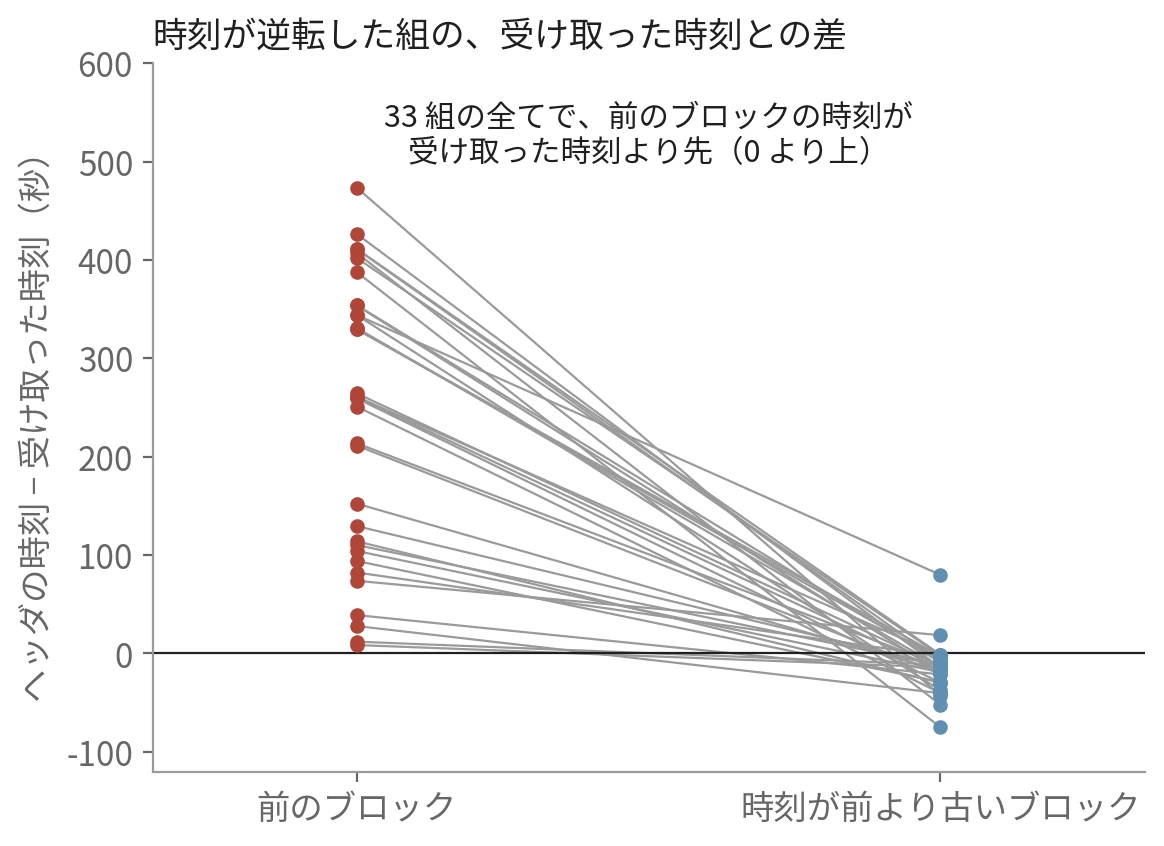
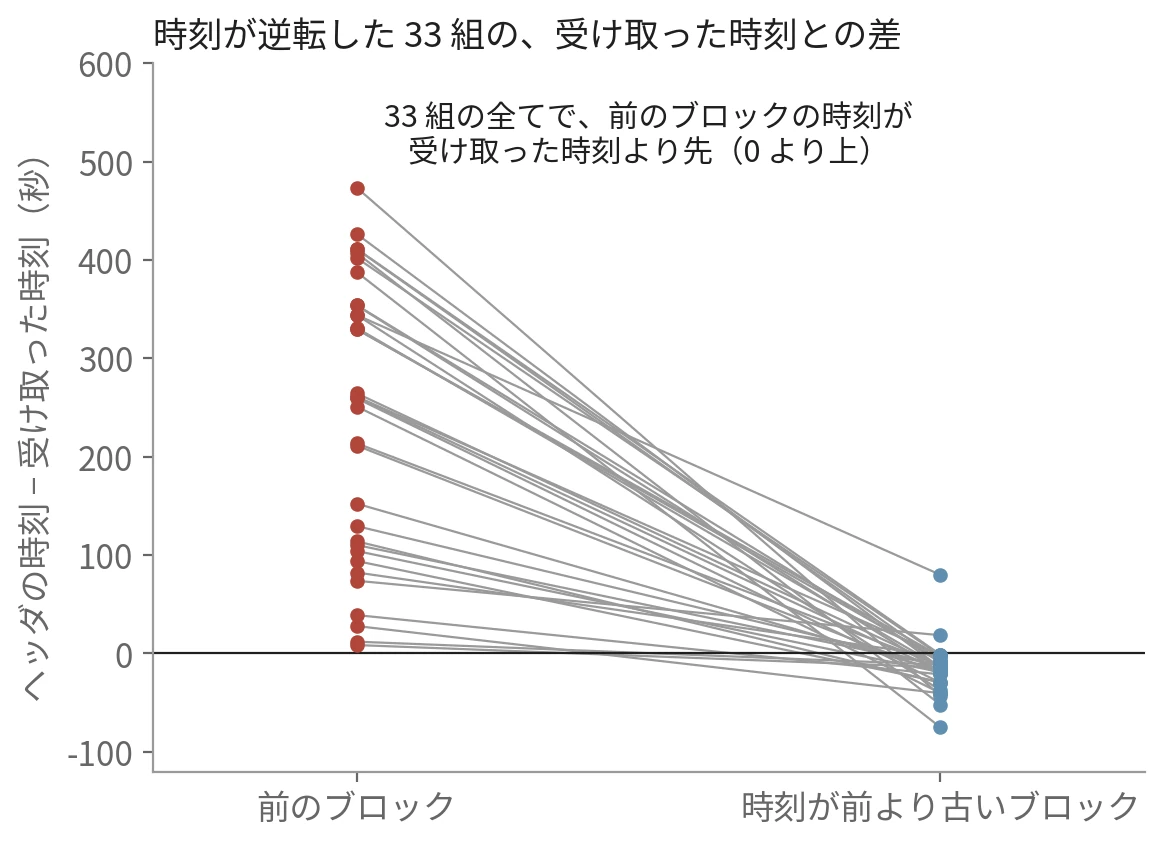
docs(notes): put the count into the bare 組 in the Bitcoin Block figure title
Claude-Session: https://claude.ai/code/session_01YUxqeZKPbCLCF82LgM8vBK

Changed region(s): [[0.1546, 0.0, 0.7732, 0.0615]]

diff --git a/content/notes/blockchain-systems/bitcoin-block/figures.py b/content/notes/blockchain-systems/bitcoin-block/figures.py
@@ -228,7 +228,7 @@ def fig_parent_ahead():
     ax.set_ylabel('ヘッダの時刻 − 受け取った時刻（秒）', color=SUB)
     ax.text(0.5, 500, f'{len(pairs)} 組の全てで、前のブロックの時刻が\n受け取った時刻より先（0 より上）', ha='center', color=INK, fontsize=11)
     ax.set_ylim(-120, 600)
-    ax.set_title('時刻が逆転した組の、受け取った時刻との差', color=INK, fontsize=12.5, loc='left')
+    ax.set_title(f'時刻が逆転した {len(pairs)} 組の、受け取った時刻との差', color=INK, fontsize=12.5, loc='left')
     style(ax)
     save_plt(fig, 'block_parent_ahead.webp')
 
